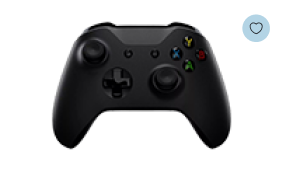
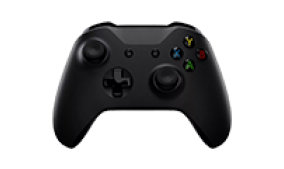
detail page (sorry, but i'm so tired)

diff --git a/e-commerce-react-project/src/components/detailComponents/detailProductFunc.jsx b/e-commerce-react-project/src/components/detailComponents/detailProductFunc.jsx
@@ -1,44 +1,83 @@
 import { Rating } from "react-simple-star-rating";
 import { useState } from "react";
+import { playGame } from "./DetailData";
+
+function Sizes(props) {
+  return <button className="col">{props.si}</button>;
+}
+
+// const sizesSi = playGame.siZes.map((child) => {
+//     return <Sizes si={child.si} />;
+// });
 
 function DetailProductFunc(props) {
-    const [rating, setRating] = useState(0)
+  const [rating, setRating] = useState(0);
 
-    const handleRating = (rate) => {
-        setRating(rate)
-    };
-    return (
-        <div>
-            <div className="col">
-                <img className="row" src={props.productImage}></img>
-                <div className="row">
-                    <img className="col" src={props.moreImage} />
-                    <img className="col" src={props.moreImage} />
-                </div>
-            </div>
-
-            <div className="col">
-                <h2>{props.productName}</h2>
-                <div>{props.price}</div>
-                <div>
-                    <Rating onClick={handleRating} /> {props.review}
-                </div>
-                <div>
-                    {props.available} <span>{props.inStock}</span>
-                </div>
-                <div>{props.items}</div>
-                <hr />
-                <div>
-                    {props.color} <span>{props.colorCircle}</span>{" "}
-                    <span>{props.colorCircle}</span>
-                </div>
-                <div className="row">
-                    <div className="col">{props.size}</div>
-                </div>
-                <div className=""></div>
-            </div>
+  const handleRating = (rate) => {
+    setRating(rate);
+  };
+  return (
+    <div className="row inner-box mx-auto my-modal">
+      <div className="col">
+        <img className="row" src={props.productImage}></img>
+        <div className="row mt-3">
+          <img className="col border me-3" src={props.moreImage} />
+          <img className="col border me-3" src={props.moreImage} />
         </div>
-    )
+      </div>
+
+      <div className="col">
+        <h2 className="blue-1">{props.productName}</h2>
+        <div className="back-3 fw-bold fs-3 my-4">{props.price}</div>
+        <div>
+          <Rating onClick={handleRating} /> {props.review}
+        </div>
+        <div className="black-5 my-4">
+          {props.available}{" "}
+          <span className="green-1 ms-3">
+            {" "}
+            {props.checkIcon} {props.inStock}
+          </span>
+        </div>
+        <div className="black-6 mb-4">{props.items}</div>
+        <hr />
+        <div className="black-6 mt-4">
+          {props.color}{" "}
+          <span className="green-2 border rounded-circle pb-1 px-1 mx-2">
+            {" "}
+            {props.colorCircle}
+          </span>{" "}
+          <span> {props.colorCircle}</span>
+        </div>
+        <div className="row my-4">
+          <div className="col">{props.size}</div>
+          {/* <div className="col">{sizesSi}</div> */}
+        </div>
+        <div className="row">
+          <div className="col">{props.quantity}</div>
+        </div>
+        <div className="row my-4">
+          <button className="orange col-4 me-3 detailBtn mx-auto">
+            {props.addBtn}
+          </button>
+          <button className="orange col-4 detailBtn mx-auto">
+            {props.buyBtn}
+          </button>
+          <button className="col-2 fs-1 border-0 rounded-circle px-2 text-center">
+            {props.heart}
+          </button>
+        </div>
+        <hr />
+        <div className="mt-4">
+          <div>{props.sku}</div>
+          <div className="my-4">{props.category}</div>
+          <div>
+            Share: <img src={props.share} />
+          </div>
+        </div>
+      </div>
+    </div>
+  );
 }
 
 export default DetailProductFunc;

diff --git a/e-commerce-react-project/src/components/detailComponents/DetailFunc.jsx b/e-commerce-react-project/src/components/detailComponents/DetailFunc.jsx
@@ -1,6 +1,6 @@
 import React, { useState } from "react";
 import { Modal } from "react-bootstrap";
-import { contact, header, Menus } from "../Data"
+import { contact, header, Menus } from "../Data";
 import ContactFunc from "../header/ContactFunc";
 import HeaderFunc from "../header/HeaderFunc";
 import MainMenu from "../MainMenu";
@@ -9,11 +9,7 @@ import DetailProductFunc from "../detailComponents/detailProductFunc";
 
 const contactSec = contact.map((name) => {
   return (
-    <ContactFunc
-      help={name.help}
-      store={name.store}
-      delivery={name.delivery}
-    />
+    <ContactFunc help={name.help} store={name.store} delivery={name.delivery} />
   );
 });
 
@@ -30,19 +26,37 @@ const headerSec = header.map((item) => {
   );
 });
 
-const detailProduct = playGame.map(product => {
-  return(
+const detailProduct = playGame.map((product) => {
+  return (
     <DetailProductFunc
-     productImage={product.productImage}
-     moreImage={product.moreImage}
-     productName={product.productName}
-      />
-  )
-})
+      productImage={product.productImage}
+      moreImage={product.moreImage}
+      productName={product.productName}
+      price={product.price}
+      review={product.review}
+      available={product.available}
+      inStock={product.inStock}
+      items={product.items}
+      color={product.color}
+      colorCircle={product.colorCircle}
+      size={product.size}
+      quantity={product.quantity}
+      addBtn={product.addBtn}
+      buyBtn={product.buyBtn}
+      heart={product.heart}
+      fullHeart={product.fullHeart}
+      sku={product.sku}
+      category={product.category}
+      share={product.share}
+      descBtn={product.descBtn}
+      revBtn={product.revBtn}
+      checkIcon={product.checkIcon}
+    />
+  );
+});
 
 function DetailFunc(props) {
-
-  const values = [true, 'sm-down', 'md-down', 'lg-down', 'xl-down', 'xxl-down'];
+  const values = [true, "sm-down", "md-down", "lg-down", "xl-down", "xxl-down"];
   const [fullscreen, setFullscreen] = useState(true);
   const [show, setShow] = useState(false);
 
@@ -53,21 +67,22 @@ function DetailFunc(props) {
 
   return (
     <div className="row">
-
-      <Modal show={props.show} fullscreen={props.fullscreen} onHide={(props.setShow)}>
+      <Modal
+        show={props.show}
+        fullscreen={props.fullscreen}
+        onHide={props.setShow}
+      >
         <Modal.Header closeButton></Modal.Header>
+
+        <Modal.Body className="m-0 p-0">
           <div>
             {contactSec}
             {headerSec}
           </div>
           <div className="menu-container">
-            <div className="inner-box">
-              <MainMenu />
-            </div>
+              <MainMenu className="inner-box" />
           </div>
-
-        <Modal.Body>
-          {detailProduct}
+          <div className="mt-3">{detailProduct}</div>
         </Modal.Body>
       </Modal>
     </div>

diff --git a/e-commerce-react-project/src/components/detailComponents/DetailData.js b/e-commerce-react-project/src/components/detailComponents/DetailData.js
@@ -1,4 +1,4 @@
-let generateId = Math.round(Math.random() * 100)
+let generateId = Math.round(Math.random() * 100);
 
 const playGame = [
   {
@@ -8,12 +8,13 @@ const playGame = [
     price: "$11,70",
     review: "No reviews",
     available: "Availability: ",
+    checkIcon: <i class="fa-solid fa-check"></i>,
     inStock: "In stock",
     items: "Hurry up only 34 products left in stock",
-    color: "Color",
+    color: "Color: ",
     colorCircle: <i class="fa-solid fa-circle"></i>,
-    size: "Size",
-    sizes: [
+    size: "Size: ",
+    siZes: [
       {
         si: 30,
       },
@@ -27,13 +28,13 @@ const playGame = [
         si: 48,
       },
     ],
-    quantity: 1,
+    quantity: "Quantity: ",
     addBtn: "Add to cart",
     buyBtn: "Buy it now",
     heart: <i class="fa-regular fa-heart"></i>,
     fullHeart: <i class="fa-solid fa-heart"></i>,
-    sku: "01133 - 9 - 9",
-    category: "20% off, 40% off Alex remote",
+    sku: "Sku: 01133 - 9 - 9",
+    category: "Category: 20% off, 40% off Alex remote",
     share: "images/social.png",
     descBtn: "Description",
     revBtn: "Review",
@@ -55,7 +56,7 @@ const relatedCam = [
     addToCart: "Add to cart",
     cartIcon: <i class="fa-solid fa-cart-shopping"></i>,
     viewIcon: <i class="fa-regular fa-eye"></i>,
-    id: generateId(),
+    id: generateId,
     heart: <i class="fa-regular fa-heart"></i>,
     fullHeart: <i class="fa-solid fa-heart"></i>,
   },
@@ -66,7 +67,7 @@ const related = [
     productImage: "images/wireless-headphones.png",
     productName: "Wireless headphones",
     price: "$11.70",
-    id: generateId(),
+    id: generateId,
     heart: <i class="fa-regular fa-heart"></i>,
     fullHeart: <i class="fa-solid fa-heart"></i>,
   },
@@ -74,7 +75,7 @@ const related = [
     productImage: "images/play-game.png",
     productName: "Play game",
     price: "$11,70",
-    id: generateId(),
+    id: generateId,
     heart: <i class="fa-regular fa-heart"></i>,
     fullHeart: <i class="fa-solid fa-heart"></i>,
   },
@@ -82,7 +83,7 @@ const related = [
     productImage: "images/laptop-pop.png",
     productName: "Tablet & laptop",
     price: "$11,70",
-    id: generateId(),
+    id: generateId,
     heart: <i class="fa-regular fa-heart"></i>,
     fullHeart: <i class="fa-solid fa-heart"></i>,
   },

diff --git a/e-commerce-react-project/src/App.css b/e-commerce-react-project/src/App.css
@@ -58,6 +58,18 @@
 .black-4{
   color: #3B3B3B;
 }
+.black-5{
+  color: #232323;
+}
+.black-6{
+  color: #5D5D5D;
+}
+.green-1{
+  color: #30BD57;
+}
+.green-2{
+  color: #D0EC48;
+}
 
 /*CONTACT*/
 .contact a{
@@ -100,7 +112,6 @@
 /*MENU*/
 .menu-container{
   background-color: #f4f4f4;
-  margin: 0;
 }
 .nav-bar:first-child .nav-item a{
   background-color: #EDA415;
@@ -444,5 +455,20 @@
   font-size: 19px;
 }
 .nav-title{
+  font-weight: 600;
+}
+
+
+/*MODAL*/
+.my-modal img{
+  border-radius: 20px;
+}
+.my-modal .star-svg{
+  width: 30px;
+}
+.detailBtn{
+  font-size: 22px;
+  border-radius: 32px;
+  padding: 20px 56px;
   font-weight: 600;
 }

diff --git a/e-commerce-react-project/src/App.js b/e-commerce-react-project/src/App.js
@@ -198,16 +198,14 @@ function App() {
   });
 
   return (
-    <div className="box container-fluid">
+    <div className="box container-fluid m-0 p-0">
       <header>
         {contactSec}
         {headerSec}
       </header>
 
       <div className="menu-container">
-        <div className="inner-box">
-          <MainMenu />
-        </div>
+          <MainMenu className="inner-box" />
       </div>
 
       <div className="first-carousel">
